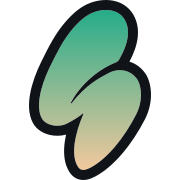
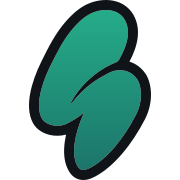
fix: colors

Changed region(s): [[0.1944, 0.1389, 0.8056, 0.9444]]

diff --git a/src/styles/tokens.css b/src/styles/tokens.css
@@ -15,8 +15,9 @@
   --token-orange-0: #f2c89d;
   --token-orange-1: #f6734a;
   --token-orange-2: #f9551f;
-  --token-green-0: #25ac89;
-  --token-green-1: #1c756a;
+  --token-green-0: #55e3be;
+  --token-green-1: #25ac89;
+  --token-green-2: #1c756a;
   --token-yellow-0: #ffd27f;
 
   --code-primary: var(--token-orange-1);
@@ -67,19 +68,19 @@
   --surface-1: var(--token-neutral-1);
   --surface-2: var(--token-neutral-2);
 
-  --canvas: var(--token-green-1);
-  --logo-color-start: var(--token-green-0);
-  --logo-color-end: var(--token-orange-0);
-  --link-color: var(--token-green-1);
-  --list-color: var(--token-green-1);
-  --quote-color: var(--token-green-1);
-  --header-color: var(--token-green-1);
-  --inline-code-color: var(--token-green-1);
-  --button-text: var(--token-green-1);
+  --canvas: var(--token-green-2);
+  --logo-color-start: var(--token-green-1);
+  --logo-color-end: var(--token-green-2);
+  --link-color: var(--token-green-2);
+  --list-color: var(--token-green-2);
+  --quote-color: var(--token-green-2);
+  --header-color: var(--token-green-2);
+  --inline-code-color: var(--token-green-2);
+  --button-text: var(--token-green-2);
   --button-background: transparent;
-  --button-border: var(--token-green-1);
+  --button-border: var(--token-green-2);
   --box-shadow-color: var(--token-green-0);
-  --card-border: var(--token-orange-0);
+  --card-border: var(--token-green-2);
   --card-shadow: 0.25em 0.25em 0px 0px var(--card-border);
   --info-background: var(--token-orange-0);
   --info-text: var(--token-neutral-5);
@@ -100,8 +101,8 @@
 
     --canvas: var(--token-orange-0);
     --logo-color-start: var(--token-green-0);
-    --logo-color-end: var(--token-orange-0);
-    --link-color: var(--token-green-0);
+    --logo-color-end: var(--token-green-1);
+    --link-color: var(--token-green-1);
     --list-color: var(--token-orange-0);
     --quote-color: var(--token-orange-0);
     --header-color: var(--token-orange-0);
